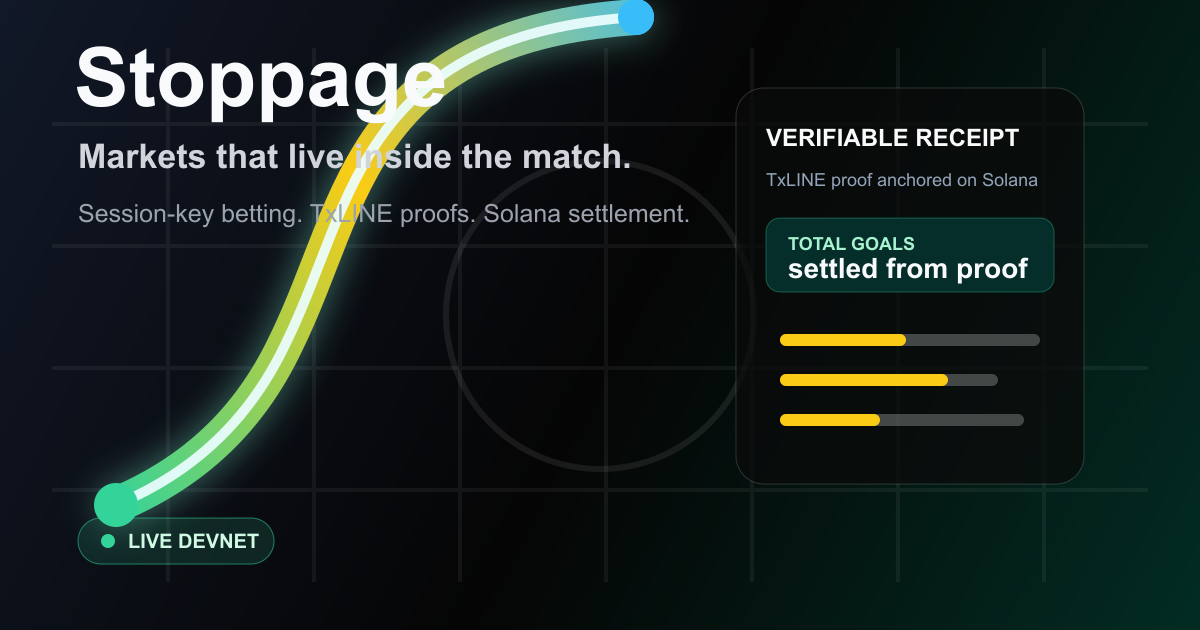
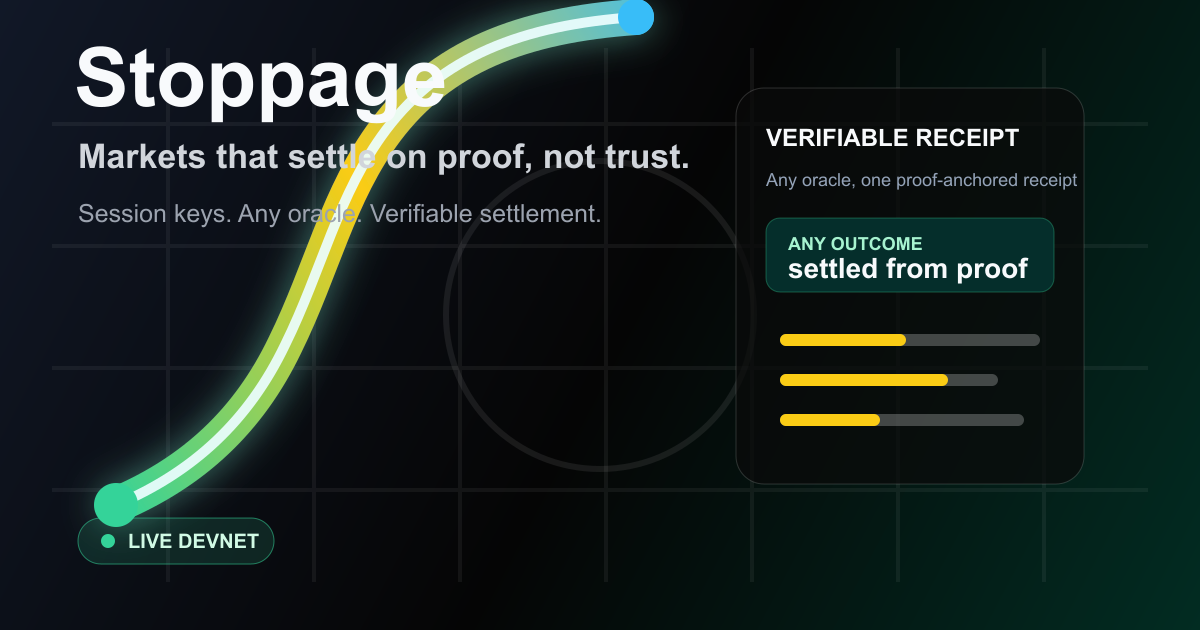
meta: align share surface with settlement-primitive positioning
Update title/OG/Twitter copy, keywords, and og-image text from sportsbook
framing (bet the next moment, TxLINE proofs) to oracle-agnostic settlement
(markets that settle on proof, any oracle). Regenerate og-image.png from
SVG. Fold in the priceKeeper key variable rename.

diff --git a/apps/web/app/layout.tsx b/apps/web/app/layout.tsx
@@ -14,19 +14,21 @@ export const metadata: Metadata = {
   metadataBase: new URL("https://stoppage.sportwarren.com"),
   applicationName: "Stoppage",
   title: {
-    default: "Stoppage — bet the next moment",
+    default: "Stoppage — markets that settle on proof",
     template: "%s — Stoppage",
   },
   description:
-    "In-play sports micro-markets with session-key betting, TxLINE proofs, and verifiable Solana settlement.",
+    "Oracle-agnostic settlement for prediction markets: proof-gated payouts, session-key UX, and verifiable receipts on Solana.",
   keywords: [
     "Stoppage",
-    "TxLINE",
-    "TxODDS",
     "Solana",
     "prediction markets",
-    "sports data",
+    "decision markets",
+    "futarchy",
+    "oracle-agnostic settlement",
     "verifiable settlement",
+    "Pyth",
+    "TxLINE",
   ],
   icons: {
     icon: [
@@ -39,23 +41,23 @@ export const metadata: Metadata = {
     type: "website",
     url: "https://stoppage.sportwarren.com",
     siteName: "Stoppage",
-    title: "Stoppage — bet the next moment",
+    title: "Stoppage — markets that settle on proof",
     description:
-      "Session-key betting, TxLINE Merkle proofs, and proof-gated Solana settlement for in-play sports micro-markets.",
+      "Proof-gated settlement on Solana. Any validator oracle, one verifiable receipt. Session-key UX, no signing popups.",
     images: [
       {
         url: "/og-image.png",
         width: 1200,
         height: 630,
-        alt: "Stoppage: markets that live inside the match",
+        alt: "Stoppage: markets that settle on proof, not trust",
       },
     ],
   },
   twitter: {
     card: "summary_large_image",
-    title: "Stoppage — bet the next moment",
+    title: "Stoppage — markets that settle on proof",
     description:
-      "Session-key betting, TxLINE proofs, and verifiable Solana settlement for in-play sports micro-markets.",
+      "Oracle-agnostic settlement for prediction markets. Any validator, one verifiable receipt, on Solana.",
     images: ["/og-image.png"],
   },
 };

diff --git a/apps/agent/src/priceKeeper.ts b/apps/agent/src/priceKeeper.ts
@@ -173,18 +173,18 @@ export async function runPriceKeeper(config: PriceKeeperConfig): Promise<void> {
       params: { team: "", threshold: Number(thresholdRaw) },
     };
     const [marketPda] = findMarketPdaFromPredicate(predicate);
-    const key = marketPda.toBase58();
-    if (tracked.has(key)) return;
+    const pdaAddress = ******************();
+    if (tracked.has(pdaAddress)) return;
 
     const existing = await config.connection.getAccountInfo(marketPda);
     if (existing) {
-      log(`market already exists: ${key}`);
-      tracked.set(key, { predicate, marketPda, referenceTs, thresholdRaw });
+      log(`market already exists: ${pdaAddress}`);
+      tracked.set(pdaAddress, { predicate, marketPda, referenceTs, thresholdRaw });
       return;
     }
 
     log(
-      `creating market: ${SYMBOL} above $${roundedUsd} at ${new Date(referenceTs * 1000).toISOString()} (${key})`
+      `creating market: ${SYMBOL} above $${roundedUsd} at ${new Date(referenceTs * 1000).toISOString()} (${pdaAddress})`
     );
     if (!config.dryRun) {
       const ix = buildCreateMarketIx({
@@ -202,7 +202,7 @@ export async function runPriceKeeper(config: PriceKeeperConfig): Promise<void> {
       if (status.value[0]?.err) throw new Error(`create tx failed on-chain: ${JSON.stringify(status.value[0].err)} (${sig})`);
       log(`market created, tx ${sig}`);
     }
-    tracked.set(key, { predicate, marketPda, referenceTs, thresholdRaw });
+    tracked.set(pdaAddress, { predicate, marketPda, referenceTs, thresholdRaw });
   }
 
   async function settleMarket(m: TrackedPriceMarket): Promise<void> {
